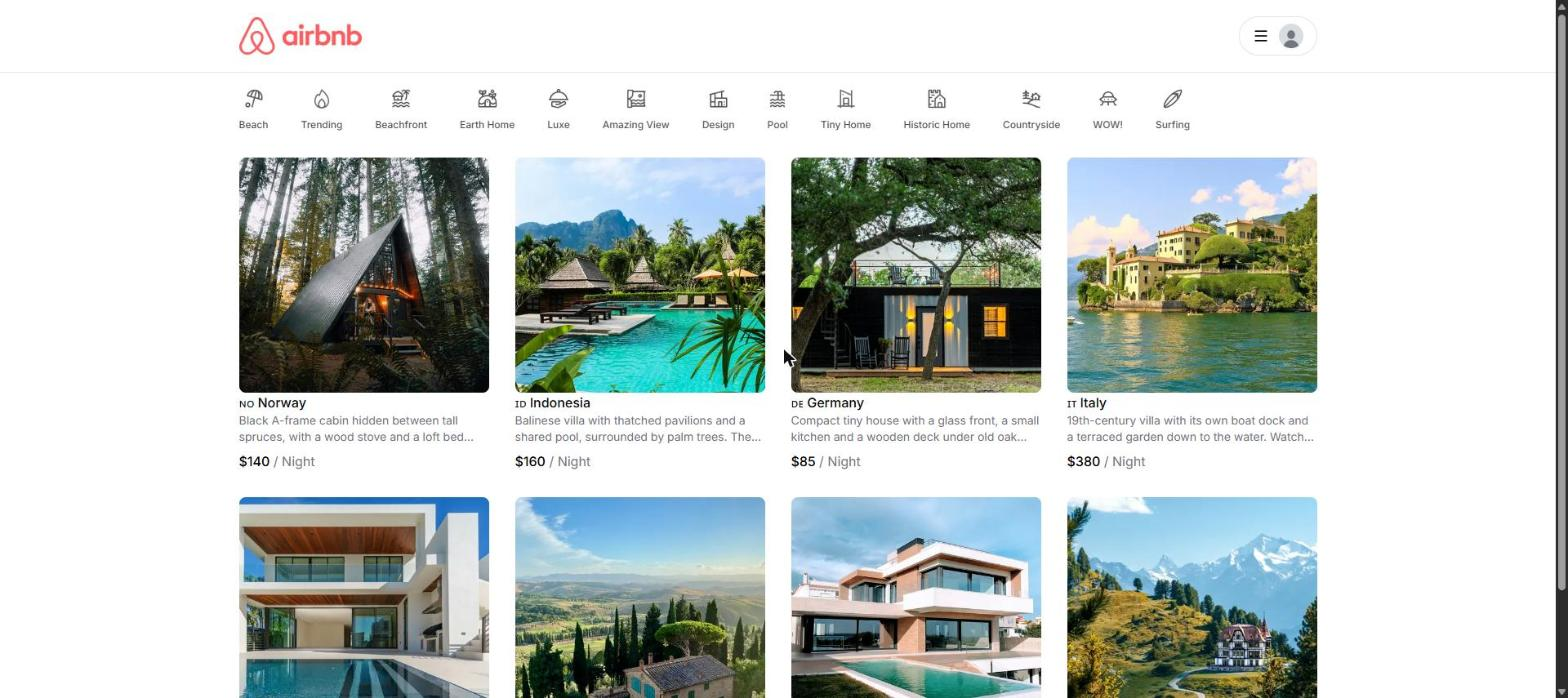
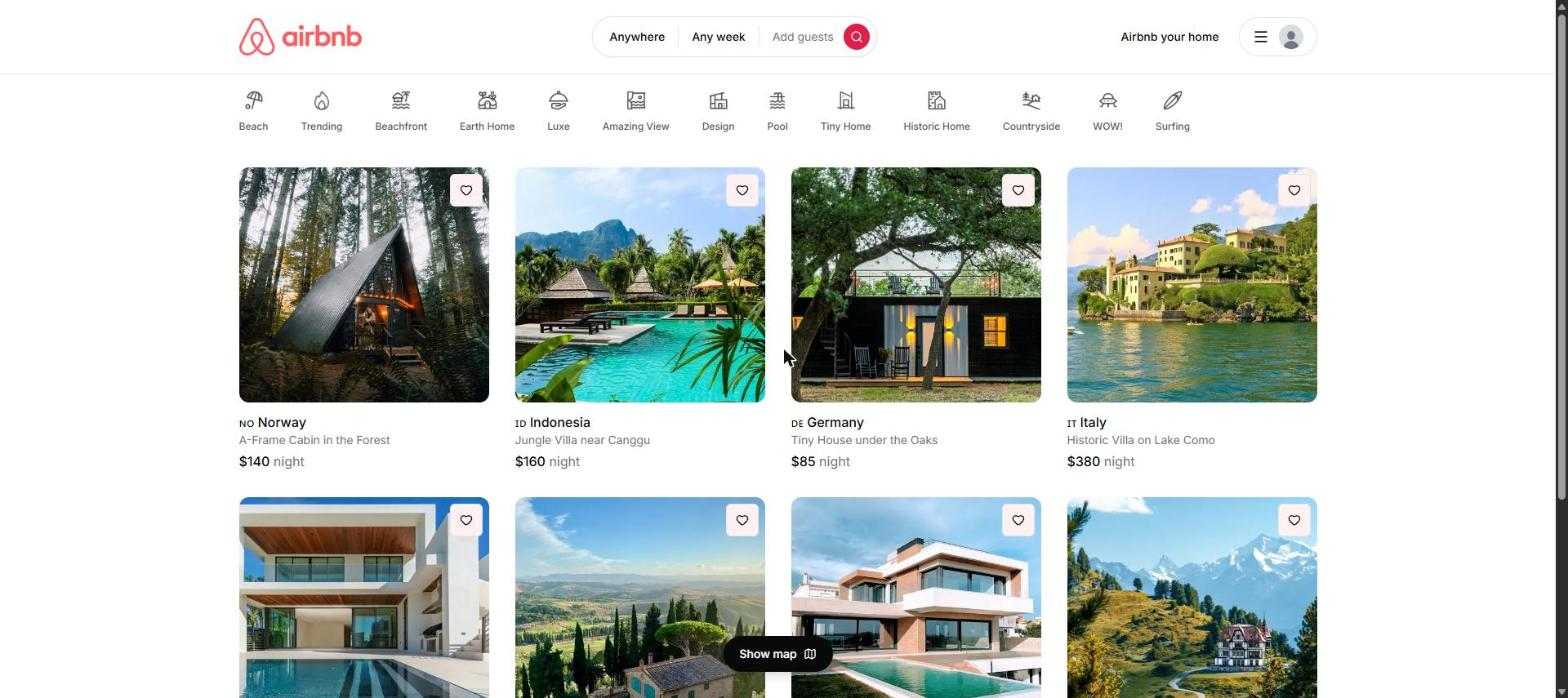
Tastatursuche in der Laenderliste, neue Screenshots
- CountrySelect: textValue fuer Radix-Typeahead (Eintraege beginnen mit Flagge)
- README: Screenshots von Suche, Buchen, Karte und My Trips

diff --git a/components/CountrySelect.tsx b/components/CountrySelect.tsx
@@ -42,8 +42,10 @@ const CountrySelect = ({
         <SelectContent>
           <SelectGroup>
             <SelectLabel>Countries</SelectLabel>
+            {/* textValue: Tastatursuche ("I-t-a" springt zu Italy). Ohne das sucht
+                Radix im sichtbaren Text, und der beginnt mit der Flagge. */}
             {getAllCountries().map((item) => (
-              <SelectItem key={item.value} value={item.value}>
+              <SelectItem key={item.value} value={item.value} textValue={item.label}>
                 {item.flag} {item.label}
               </SelectItem>
             ))}

diff --git a/README.md b/README.md
@@ -15,13 +15,17 @@ Unterkunft in drei Schritten ein.
 
 ![Startseite mit Demo-Inseraten](docs/screenshots/startseite.jpg)
 
-| Detailseite | Gastgeber, Kategorie und Karte |
+| Suche (Land, Daten, Gäste) | Buchen mit Kalender |
 | --- | --- |
-| ![Detailseite](docs/screenshots/detailseite.jpg) | ![Detailseite mit Karte](docs/screenshots/detailseite-karte.jpg) |
+| ![Suchdialog mit Land und Reisedaten](docs/screenshots/suche.jpg) | ![Buchungskarte mit Kalender, belegte Tage durchgestrichen](docs/screenshots/buchen.jpg) |
+| **Kartenansicht** | **My Trips** |
+| ![Karte mit Preis-Schildern und Vorschau](docs/screenshots/karte.jpg) | ![Gebuchte Reise und Buchungen auf eigenen Inseraten](docs/screenshots/meine-reisen.jpg) |
 
-Die Demo-Inserate wurden über das normale Formular der App angelegt. Die Fotos stammen
-von [Unsplash](https://unsplash.com) (Unsplash-Lizenz). Zum Buchen, Speichern und Inserieren
-braucht es ein Login (Google oder E-Mail über Kinde). Bezahlt wird nichts, es ist eine Demo.
+Die Inserate wurden über das normale Formular der App angelegt, die Fotos stammen
+von [Unsplash](https://unsplash.com) (Unsplash-Lizenz). Gastgeber Marco, Mia und Sofia und
+ihre Buchungen sind Demo-Daten, damit man belegte Tage und die Gastgeber-Sicht sieht.
+Zum Buchen, Speichern und Inserieren braucht es ein Login (Google oder E-Mail über Kinde).
+Bezahlt wird nichts, es ist eine Demo.
 
 ## Funktionen
 
